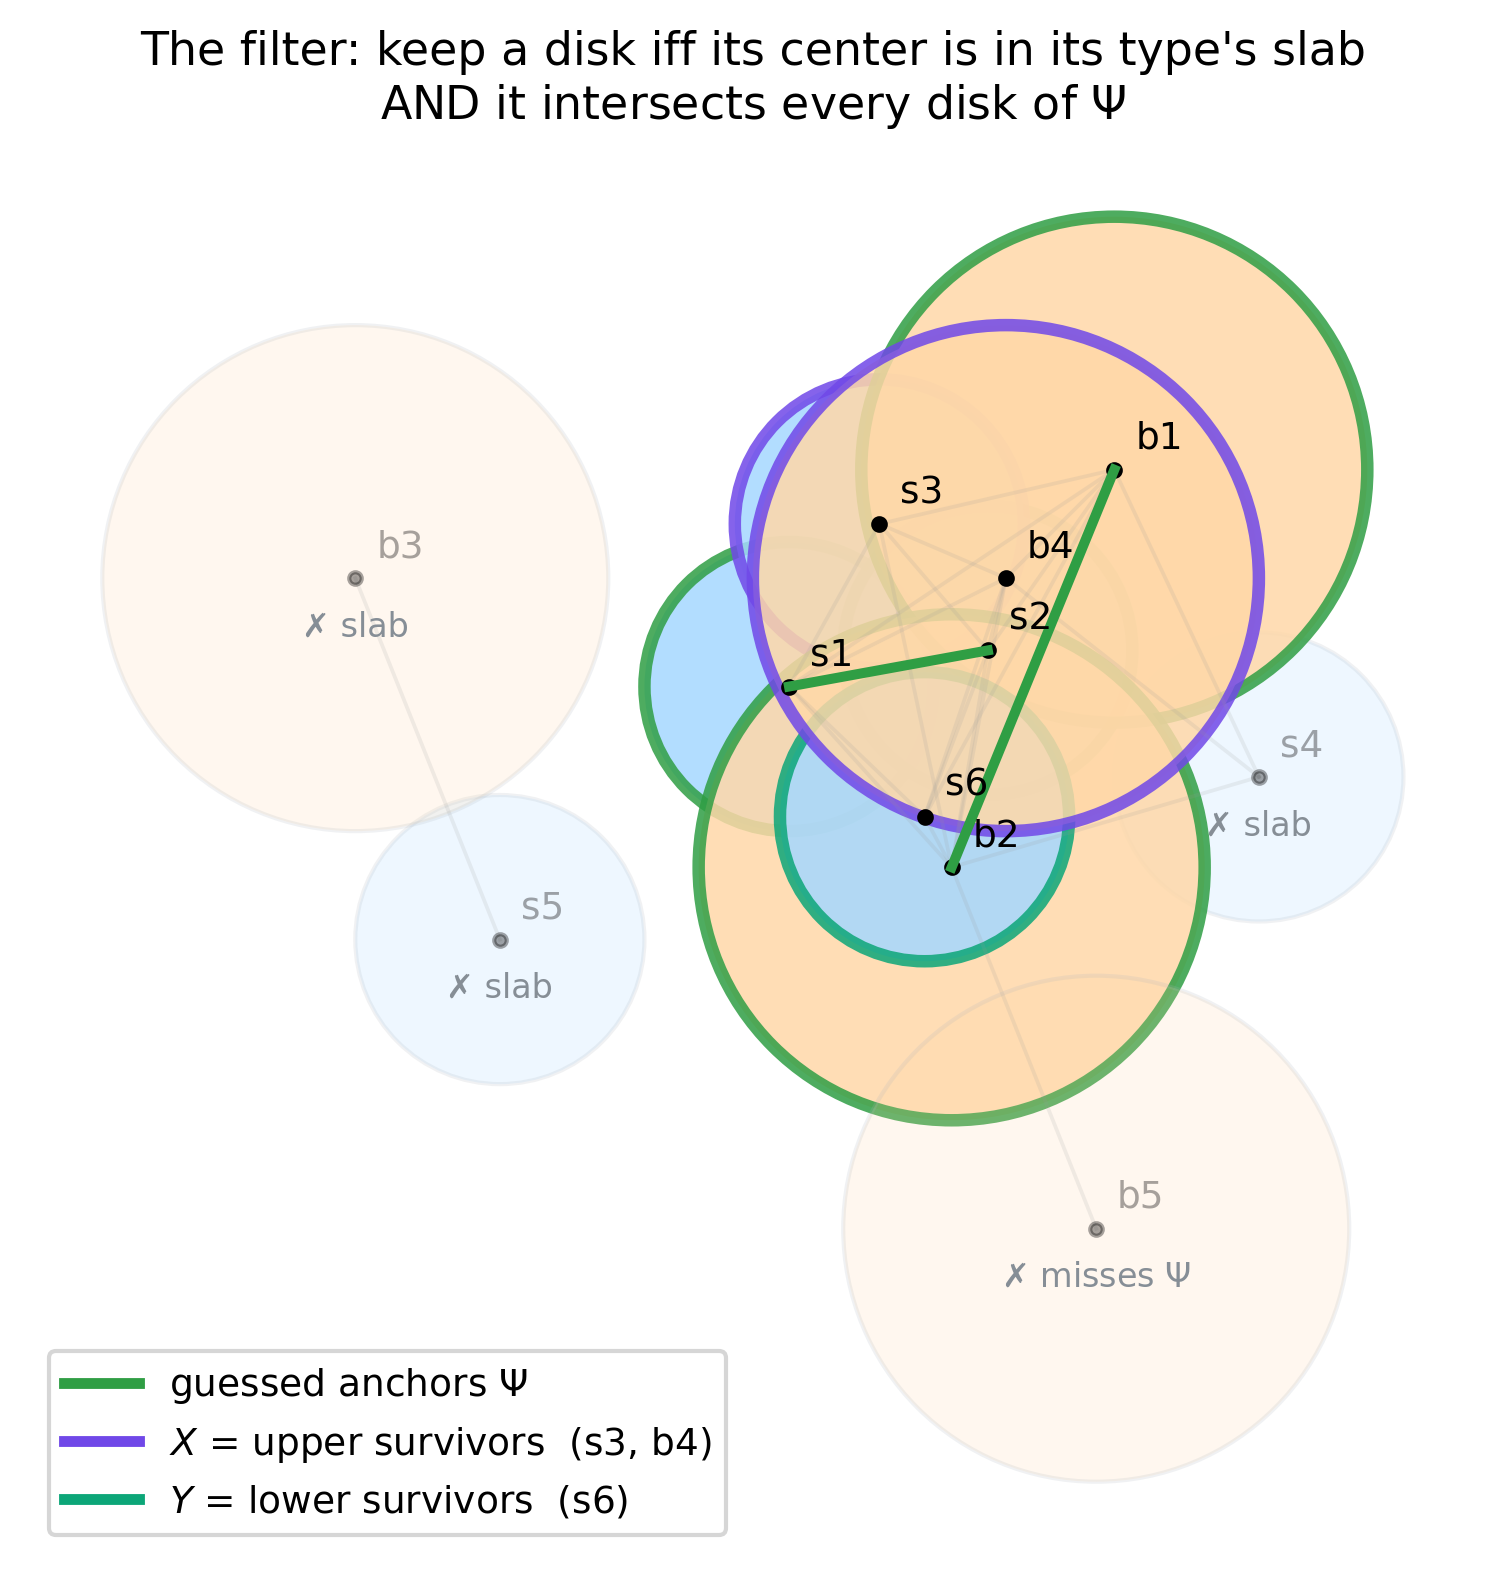
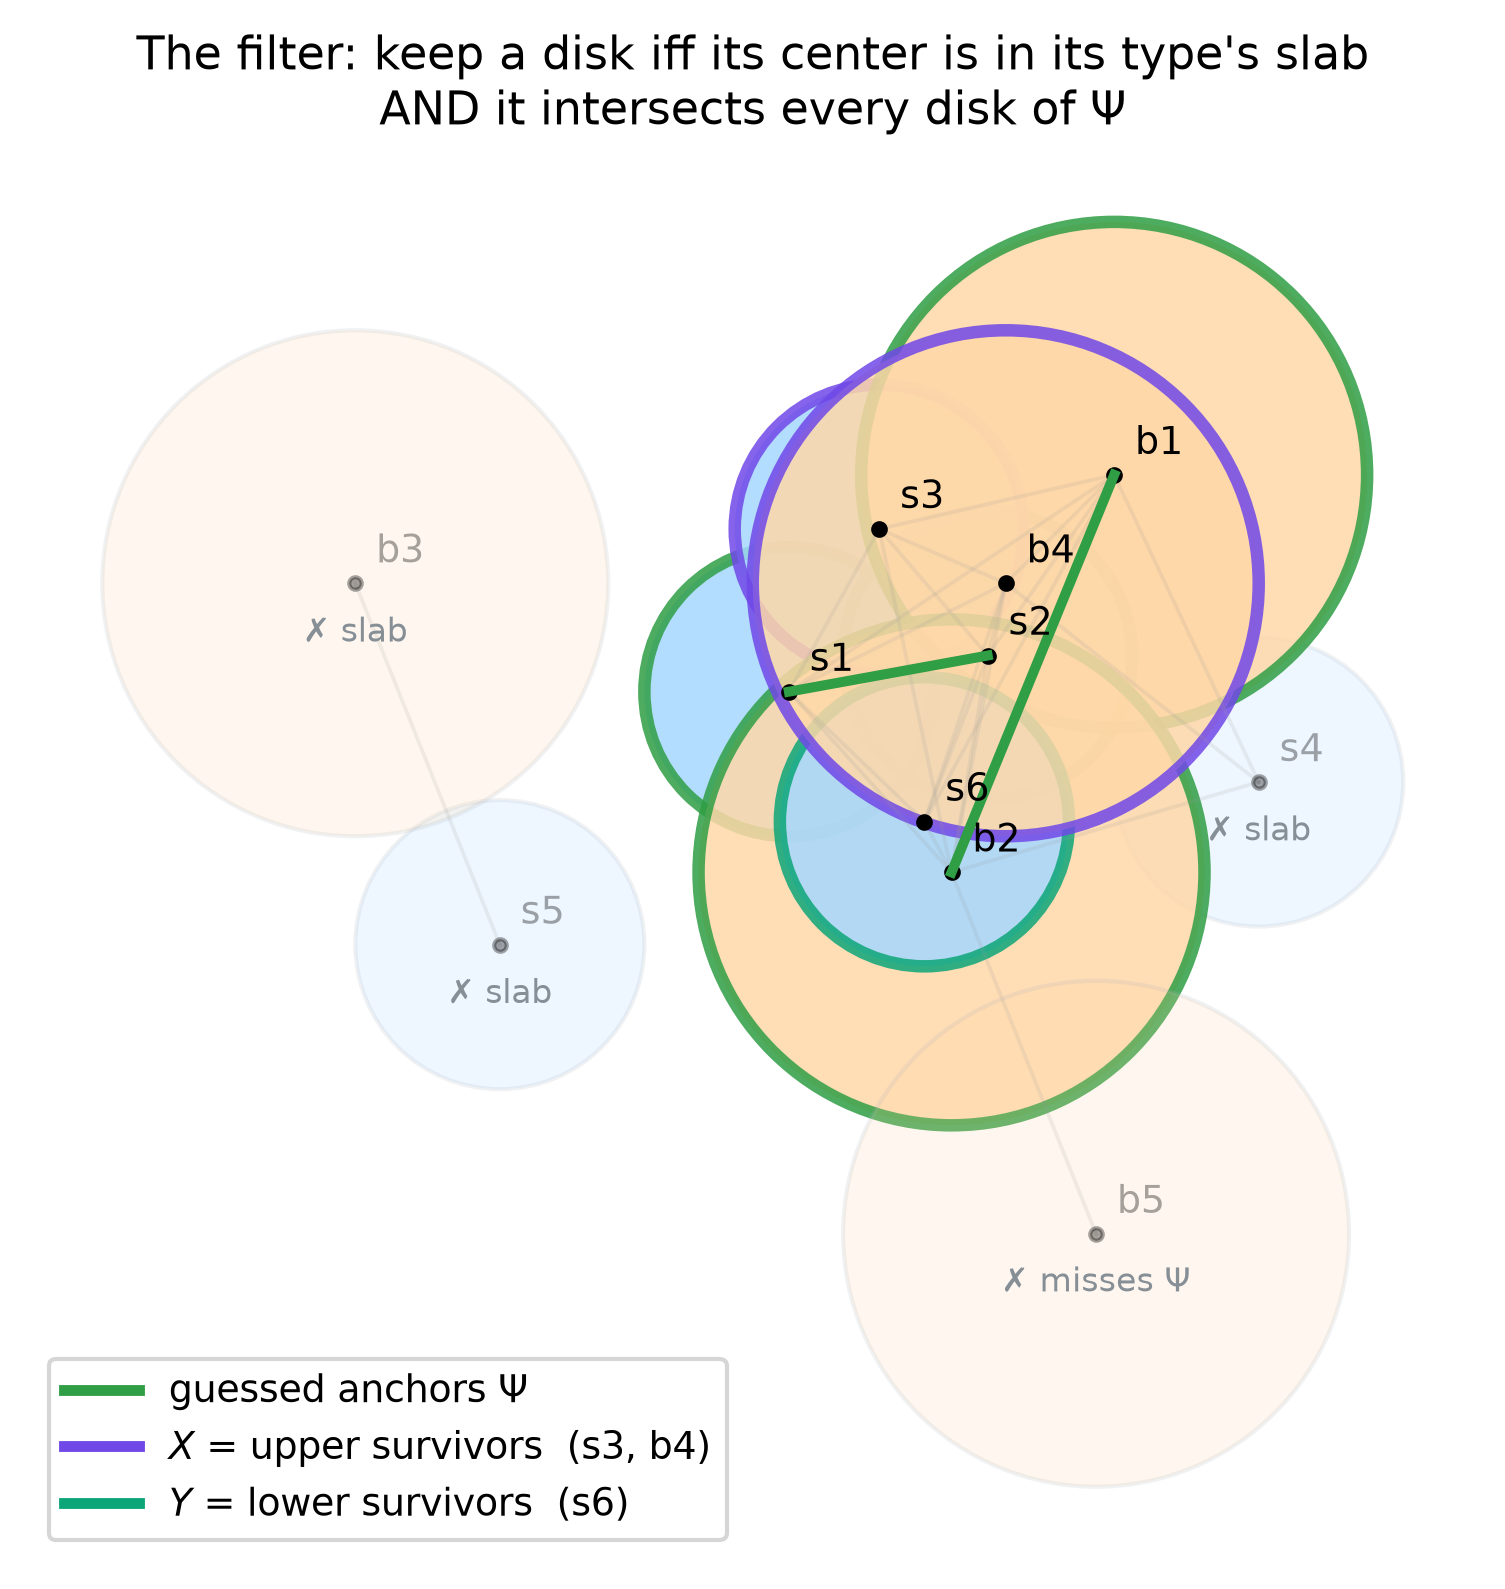
add algorithm figs to notebook

diff --git a/cg-notebook.py b/cg-notebook.py
@@ -6,29 +6,13 @@ app = marimo.App(width="medium")
 
 @app.cell
 def _():
-
-    import itertools
-    from types import SimpleNamespace
     import matplotlib.pyplot as plt
     import numpy as np
     from matplotlib.patches import Polygon, Circle
     import math
     import marimo as mo
 
-    TYPE_FACE = {1: "#a5d8ff", 2: "#ffd8a8"}      # fill by radius type
-    TYPE_EDGE = {1: "#1971c2", 2: "#e8590c"}
-    return (
-        Circle,
-        Polygon,
-        SimpleNamespace,
-        TYPE_EDGE,
-        TYPE_FACE,
-        itertools,
-        math,
-        mo,
-        np,
-        plt,
-    )
+    return Circle, Polygon, math, mo, np, plt
 
 
 @app.cell(hide_code=True)
@@ -228,7 +212,7 @@ def _(np):
         av, bv = np.array([2.0, 0.0]), np.array([2.0, 1.6])
         s2 = l2anim.animate_case(p=np.array([3.7, 3.0]), q=np.array([2.0, 2.35]),
                      a=av, b=bv, case="v", fname="figs/chapter2/lemma21/lemma21_case_vertical.gif")
-        return s1_b, s1_b, s2
+        return s1_b, s1_c, s2
 
     return (figs_lemma21,)
 
@@ -256,160 +240,26 @@ def _(mo):
 
 
 @app.cell
-def _(Circle, SimpleNamespace, TYPE_EDGE, TYPE_FACE, itertools, np, plt):
-    # Section 3 notation, visualized — function-per-figure edition for marimo.
-    #
-    # Paste this block into ONE cell (it only defines functions), then render each
-    # figure in its own cell:
-    #
-    #     scene = make_scene()
-    #     fig_disk_graph(scene)                 # D_k
-    #     fig_single_type_clique(scene)         # C_1
-    #     fig_max_clique(scene)                 # calligraphic C
-    #     fig_type_classes(scene)               # calligraphic C_1, C_2
-    #
-    # Each fig_* function returns a matplotlib Figure (marimo renders it if it's
-    # the cell's last expression) and accepts save="filename.png" to export.
+def _():
+    import scene_figures as sf
 
-    def make_scene(r1=0.8, r2=1.4):
-        """Build the example D_2 arrangement; compute adjacency and the exact
-        maximum clique (brute force on the geometry). Returns a SimpleNamespace
-        holding everything the drawing functions need."""
-        disks = [  # (x,     y,    radius, name)
-            ( 0.0,  0.0, r1, "s1"),
-            ( 1.1,  0.2, r1, "s2"),
-            ( 0.5,  0.9, r1, "s3"),
-            ( 2.6, -0.5, r1, "s4"),
-            (-1.6, -1.4, r1, "s5"),
-            ( 1.8,  1.2, r2, "b1"),
-            ( 0.9, -1.0, r2, "b2"),
-            (-2.4,  0.6, r2, "b3"),
-        ]
-        pos = np.array([[d[0], d[1]] for d in disks])
-        rad = np.array([d[2] for d in disks])
-        nam = [d[3] for d in disks]
-        n = len(disks)
-        typ = [1 if r == r1 else 2 for r in rad]
-
-        # disks intersect  <=>  |ab| <= r_a + r_b
-        adj = [[i != j and np.linalg.norm(pos[i] - pos[j]) <= rad[i] + rad[j] + 1e-12
-                for j in range(n)] for i in range(n)]
-
-        def _is_clique(S):
-            return all(adj[i][j] for i, j in itertools.combinations(S, 2))
-
-        cmax = max((S for m in range(n, 0, -1)
-                    for S in itertools.combinations(range(n), m) if _is_clique(S)),
-                   key=len)
-        return SimpleNamespace(
-            pos=pos, rad=rad, name=nam, n=n, typ=typ, adj=adj,
-            cmax=list(cmax),
-            c1=[i for i in cmax if typ[i] == 1],   # calligraphic C_1
-            c2=[i for i in cmax if typ[i] == 2],   # calligraphic C_2
-        )
-
-
-    def _draw(scene, title, emph=None, dim_others=False, edge_colors=None):
-        """Shared renderer: one arrangement, optional emphasized subset."""
-        s = scene
-        emph = set(emph or [])
-        fig, ax = plt.subplots(figsize=(6.4, 5))
-        for i in range(s.n):
-            strong = (not dim_others) or (i in emph)
-            ec = (edge_colors or {}).get(
-                i, "#333" if i in emph else TYPE_EDGE[s.typ[i]])
-            ax.add_patch(Circle(s.pos[i], s.rad[i],
-                                facecolor=TYPE_FACE[s.typ[i]], edgecolor=ec,
-                                alpha=.85 if strong else .18,
-                                lw=2.6 if i in emph else 1.2, zorder=2))
-            ax.plot(*s.pos[i], "o", color="k", ms=3,
-                    alpha=1 if strong else .25, zorder=4)
-            ax.annotate(s.name[i], s.pos[i], textcoords="offset points",
-                        xytext=(5, 5), fontsize=9,
-                        alpha=1 if strong else .3, zorder=5)
-        for i, j in itertools.combinations(range(s.n), 2):
-            if s.adj[i][j]:
-                both = i in emph and j in emph
-                ax.plot(*np.c_[s.pos[i], s.pos[j]],
-                        color="#444" if both and emph else "#999",
-                        lw=2.2 if both and emph else 0.9,
-                        alpha=.9 if (both or not dim_others) else .15, zorder=3)
-        ax.set_title(title, fontsize=11)
-        ax.set_aspect("equal"); ax.set_xlim(-4.1, 4.3); ax.set_ylim(-3.1, 3.1)
-        ax.axis("off")
-        fig.tight_layout()
-        return fig
-
-
-    def _finish(fig, save):
-        if save:
-            fig.savefig(save, dpi=160, bbox_inches="tight")
-        return fig
-
-
-    def fig_disk_graph(scene, save=None):
-        """(a) D_2 — the disk graph: disks colored by radius type, gray edges."""
-        return _finish(_draw(
-            scene,
-            r"$\mathcal{D}_2$: disk graph, $k=2$ radius types"
-            "\n(blue = type-1 $(r_1)$, orange = type-2 $(r_2)$; gray = edges)"),
-            save)
-
-
-    def fig_single_type_clique(scene, members=(0, 1, 2), save=None):
-        """(b) C_1 — a clique containing only type-1 disks."""
-        return _finish(_draw(
-            scene, r"$C_1$: a clique containing only type-1 disks",
-            emph=list(members), dim_others=True), save)
-
-
-    def fig_max_clique(scene, save=None):
-        """(c) calligraphic C — the maximum clique (computed, not hand-picked)."""
-        return _finish(_draw(
-            scene,
-            r"$\mathcal{C}$: a maximum clique of $\mathcal{D}_2$"
-            r" (here $|\mathcal{C}|=%d$)" % len(scene.cmax),
-            emph=scene.cmax, dim_others=True), save)
-
-
-    def fig_type_classes(scene, save=None):
-        """(d) calligraphic C_1, C_2 — maximal same-type cliques inside C."""
-        colors = {**{i: TYPE_EDGE[1] for i in scene.c1},
-                  **{i: TYPE_EDGE[2] for i in scene.c2}}
-        return _finish(_draw(
-            scene,
-            r"$\mathcal{C}_1,\ \mathcal{C}_2$: maximal same-type cliques"
-            r" inside $\mathcal{C}$",
-            emph=scene.cmax, dim_others=True, edge_colors=colors), save)
-
-    return (
-        fig_disk_graph,
-        fig_max_clique,
-        fig_single_type_clique,
-        fig_type_classes,
-        make_scene,
-    )
+    scene = sf.make_scene()        # 8-disk D_2 arrangement — the notation figures
+    ascene = sf.make_algo_scene()  # 11-disk walk-through — Psi, slabs, X/Y filter
+    return ascene, scene, sf
 
 
 @app.cell
-def _(
-    fig_disk_graph,
-    fig_max_clique,
-    fig_single_type_clique,
-    fig_type_classes,
-    make_scene,
-):
-    scene = make_scene()
-    disk_graph_fig = fig_disk_graph(scene)                  # 𝒟₂
+def _(scene, sf):
+    disk_graph_fig = sf.fig_disk_graph(scene)                  # 𝒟₂
     disk_graph_fig.savefig("figs/chapter3/notation/disk_graph_fig.png", dpi=300)
 
-    single_type_clique_fig = fig_single_type_clique(scene)  # C₁
+    single_type_clique_fig = sf.fig_single_type_clique(scene)  # C₁
     single_type_clique_fig.savefig("figs/chapter3/notation/single_type_clique_fig.png", dpi=300)
 
-    max_clique_fig = fig_max_clique(scene)                  # 𝒞
+    max_clique_fig = sf.fig_max_clique(scene)                  # 𝒞
     max_clique_fig.savefig("figs/chapter3/notation/max_clique_fig.png", dpi=300)
 
-    type_classes_fig = fig_type_classes(scene)              # 𝒞₁, 𝒞₂
+    type_classes_fig = sf.fig_type_classes(scene)              # 𝒞₁, 𝒞₂
     type_classes_fig.savefig("figs/chapter3/notation/type_classes_fig.png", dpi=300)
     return (
         disk_graph_fig,
@@ -427,6 +277,28 @@ def _(
     type_classes_fig,
 ):
     disk_graph_fig, single_type_clique_fig, max_clique_fig, type_classes_fig 
+    return
+
+
+@app.cell
+def _(mo):
+    mo.md(r"""
+    ## Algorithm Walk-through (S5–S7)
+    """)
+    return
+
+
+@app.cell
+def _(ascene, sf):
+    guess_fig = sf.fig_guess(ascene, save="figs/chapter3/algorithm/guess.png")
+    slabs_fig = sf.fig_slabs(ascene, save="figs/chapter3/algorithm/slabs.png")
+    filter_fig = sf.fig_filter(ascene, save="figs/chapter3/algorithm/filter.png")
+    invalid_guess_fig = sf.fig_invalid_guess(
+        ascene.s, pair=(0, 4),      # s1 and s5 — they don't intersect, so Psi isn't a clique
+        save="figs/chapter3/algorithm/invalid_guess.png",
+    )
+
+    guess_fig, invalid_guess_fig, slabs_fig, filter_fig
     return
 
 

diff --git a/docs/Notes on the Maximum Clique paper.md b/docs/Notes on the Maximum Clique paper.md
@@ -155,6 +155,7 @@ Distinguish 2 scenarios:
 #### Scenario 1 Visualized:
 ![](../figs/chapter2/lemma21/lemma21_case_b.gif)
 
+
 ![](../figs/chapter2/lemma21/lemma21_case_c.gif)
 
 
@@ -197,10 +198,37 @@ Guessing = exhaustive enumeration over all candidates. Wrong guesses are harmles
 * Compute candidate solutions and - 
 * Take the maximum over all the solutions computed from these $2^k$ guesses
 #### Intuition
-_each guess uses slabs + anchor-filtering to carve a candidate set that is automatically two cliques (upper camp, lower camp); the correct guess traps all of C inside its candidate set; bipartite matching then extracts the best mutually-compatible selection across the two camps; the outer max over guesses delivers |C|._ Note the pleasing symmetry with CCJ: their lens split by segment pq gave two camps for equal radii; the slabs restore precisely that two-camp guarantee when radii mix — same skeleton, better split.
+_each guess uses slabs + anchor-filtering to carve a candidate set that is automatically two cliques (upper camp, lower camp); the correct guess traps all of $\mathcal{C}$ inside its candidate set; bipartite matching then extracts the best mutually-compatible selection across the two camps; the outer max over guesses delivers $|\mathcal{C}|$._ Note the pleasing symmetry with CCJ: their lens split by segment $pq$ gave two camps for equal radii; the slabs restore precisely that two-camp guarantee when radii mix — same skeleton, better split.
 #### How a solution is computed given a radii-set 
 * Note: We consider the worst case for complexity analysis - the radii set contains all $k$ radii types
 * For each disk type $i$ we guess two disk centers $a_i,b_i$ from $\mathcal{C}_i$ where $a_i$ is the leftmost and $b_i$ is rightmost.
 	* We denote the set of all these disk centers $\Psi$
 	* $\Psi$ has $2k$ elements in the worst case
-* 
+* For all $i \leq k$ define $X_i$ as the set of disks whose center is in $U_{a_ib_i}$ and intersect all the disks in $\Psi$.
+* Similarily define $Y_i$ as the set of disks whose center is in $\overline{U}_{a_ib_i}$ and intersect all the disks in $\Psi$.
+* The unions $X = \cup_{i=1}^k X_i$ and $Y = \cup_{i=1}^k Y_i$ are cliques in $\mathcal{D}_k$.
+* Therefore the subgraph of $\mathcal{D}_k$ composed of $X \cup Y$ is co-bipartite (any 2 cliques in a graph form a co-bipartite graph)
+* Therefore its complement, denoted $H$ is Bipartite.
+* Because $\Psi \subseteq \mathcal{C}$ it follows that $\mathcal{C} \subseteq (\Psi \cup X \cup Y)$
+* From the last to statements it follows that we can compute $\mathcal{C}$ from a maximum bipartite matching in $H\ \blacksquare$.
+##### Explanations
+**C ⊆ Ψ ∪ X ∪ Y for the correct guess:** follows from the _definitions_ of leftmost/rightmost (centers of C's disks lie in the slabs) and of a clique (C's disks intersect all of Ψ ⊆ C). No geometry needed.
+**Why Ψ can be excluded from the hard computation.** Every disk in X ∪ Y intersects _all_ of Ψ — that's the filter that defined X and Y in the first place. And Ψ itself is pairwise intersecting (for the correct guess because Ψ ⊆ C; for other guesses because we discard the ones that fail the check). So Ψ's disks are adjacent to each other _and_ to every candidate. Consequence: K is a clique in the graph on X ∪ Y **if and only if** K ∪ Ψ is a clique in the whole candidate set. Ψ imposes no constraint on the choice within X ∪ Y — it's universally compatible, so you can solve the interesting problem on X ∪ Y alone and append Ψ to whatever comes out.
+**The accounting for the correct guess.** C ⊆ Ψ ∪ X ∪ Y, and Ψ ⊆ C. So C ∖ Ψ is a clique living inside X ∪ Y, meaning the max clique of the graph on X ∪ Y has size ≥ |C| − |Ψ|. The algorithm outputs Ψ ∪ (max clique of X ∪ Y), which therefore has size ≥ |C| — and by soundness it can't exceed |C|. Equality.
+Max clique in the candidate graph on X ∪ Y = max **independent set** in its complement H; H is bipartite (sides = X's complement-vertices and Y's complement-vertices, since X and Y are cliques, all complement-edges run between the camps... plus possibly _within_? No — X a clique means no complement-edges inside X; same for Y — that's precisely bipartiteness of H); and in bipartite graphs, max independent set = n − max matching by König. That three-hop chain — clique → complement independent set → König → matching — is the part audiences ask to see slowly, so rehearse saying it in one breath.
+Xᵢ takes **type-i disks only** with centers in U_{aᵢbᵢ}. The paper's sentence ("every disk that has its center in U_{aᵢbᵢ}…") reads ambiguously, but Lemma 3.1's proof settles it — the i = j case uses "p and q correspond to type-i disks" to get the 2rᵢ bound, which requires Xᵢ's members to have radius rᵢ. A type-j disk whose center happens to fall in type-i's slab isn't lost, of course: if it's in C, it lies in its _own_ type's slab (that's what leftmost/rightmost of type j means), which is all that completeness needs. Good defensive detail to have ready if someone asks "wait, which disks go in which Xᵢ?"
+
+###### The entire mathematical content is Lemma 3.1
+"It now suffices to show that the disks in X (similarly, the disks in Y ) are mutually adjacent."
+Why "suffices" is the right word — it's worth tracing what's genuinely left once X and Y are cliques, because everything else in the argument is either definitional or classical:
+
+- C ⊆ Ψ ∪ X ∪ Y for the correct guess: follows from the _definitions_ of leftmost/rightmost (centers of C's disks lie in the slabs) and of a clique (C's disks intersect all of Ψ ⊆ C). No geometry needed.
+- Complement of the graph on X ∪ Y is bipartite: immediate _given_ X, Y are cliques — no complement-edges inside either camp.
+- Max clique from matching: König, textbook.
+
+So the entire original mathematical content of Section 3 is concentrated in one place: Lemma 3.1 (which itself is bookkeeping on top of Lemma 2.1). Everything else is assembly. That's a great framing sentence for your talk, by the way: "the paper's whole new idea fits in one lemma about slabs; the rest is 1990s-vintage machinery" — it makes the "Made Easy" title land.
+
+Two small reading notes on the lemma statement itself, so the quantifiers don't trip you:
+
+1. Lemma 3.1 says "the disks in Xᵢ ∪ X_j are mutually adjacent for every i, j." Since i = j is allowed, this covers within-type adjacency too, and since any two disks of X lie in _some_ Xᵢ and X_j, the lemma really does prove all of X is one clique — pairwise statements suffice.
+2. The paper proves only the X side and says "similarly Y." For your presentation, be ready to state why that's legitimate: the lower-slab case is the mirror image — reflect the plane across a horizontal line and upper slabs become lower slabs, Lemma 2.1 flips accordingly (the point p now has y-coordinate ≤ q's). Nothing new happens, but a picky audience member might ask you to say so out loud.
